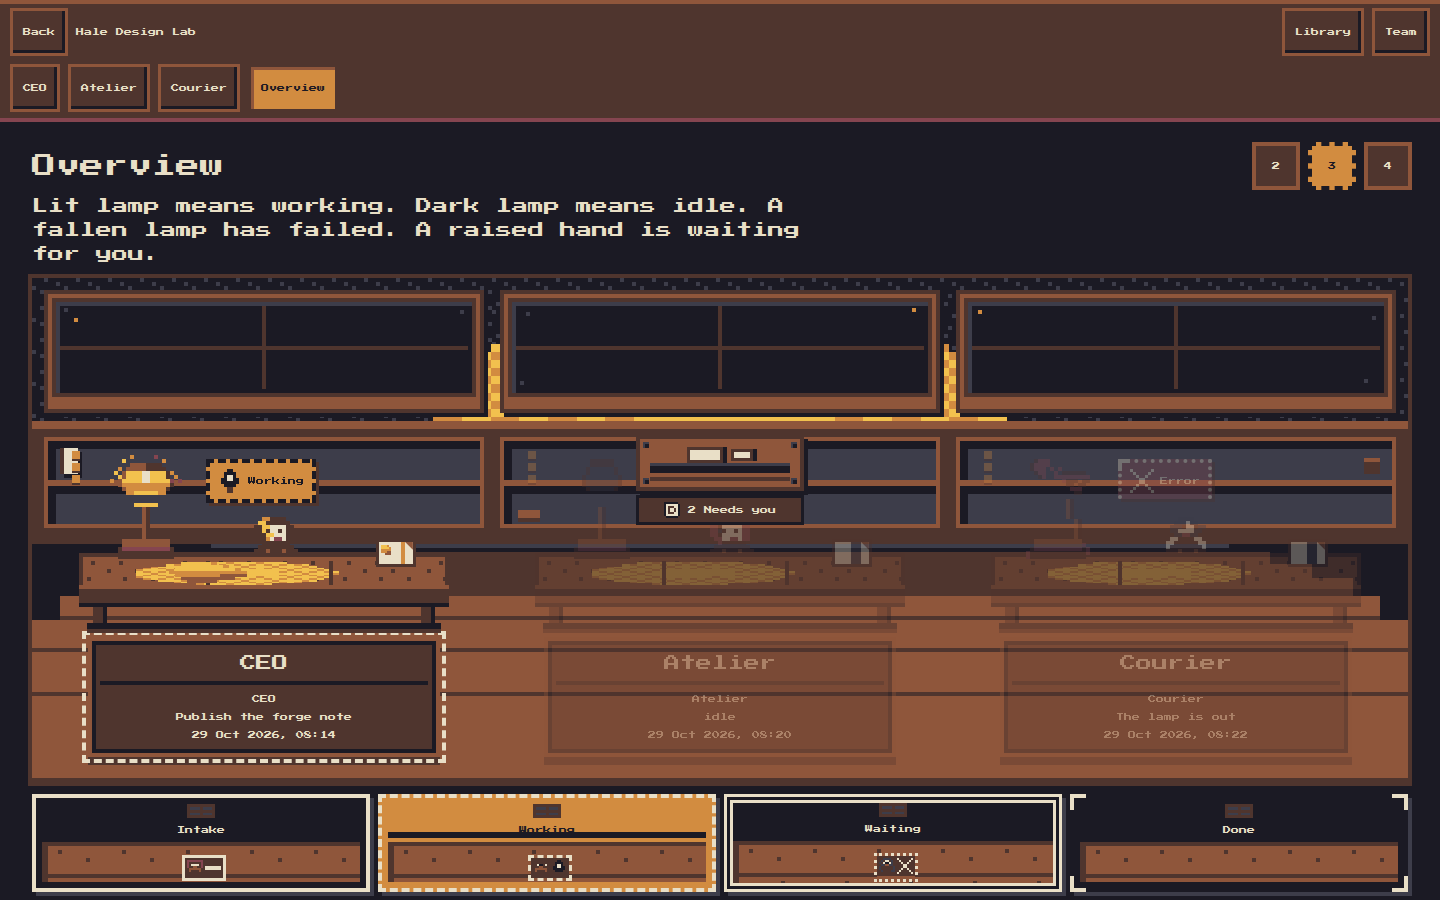
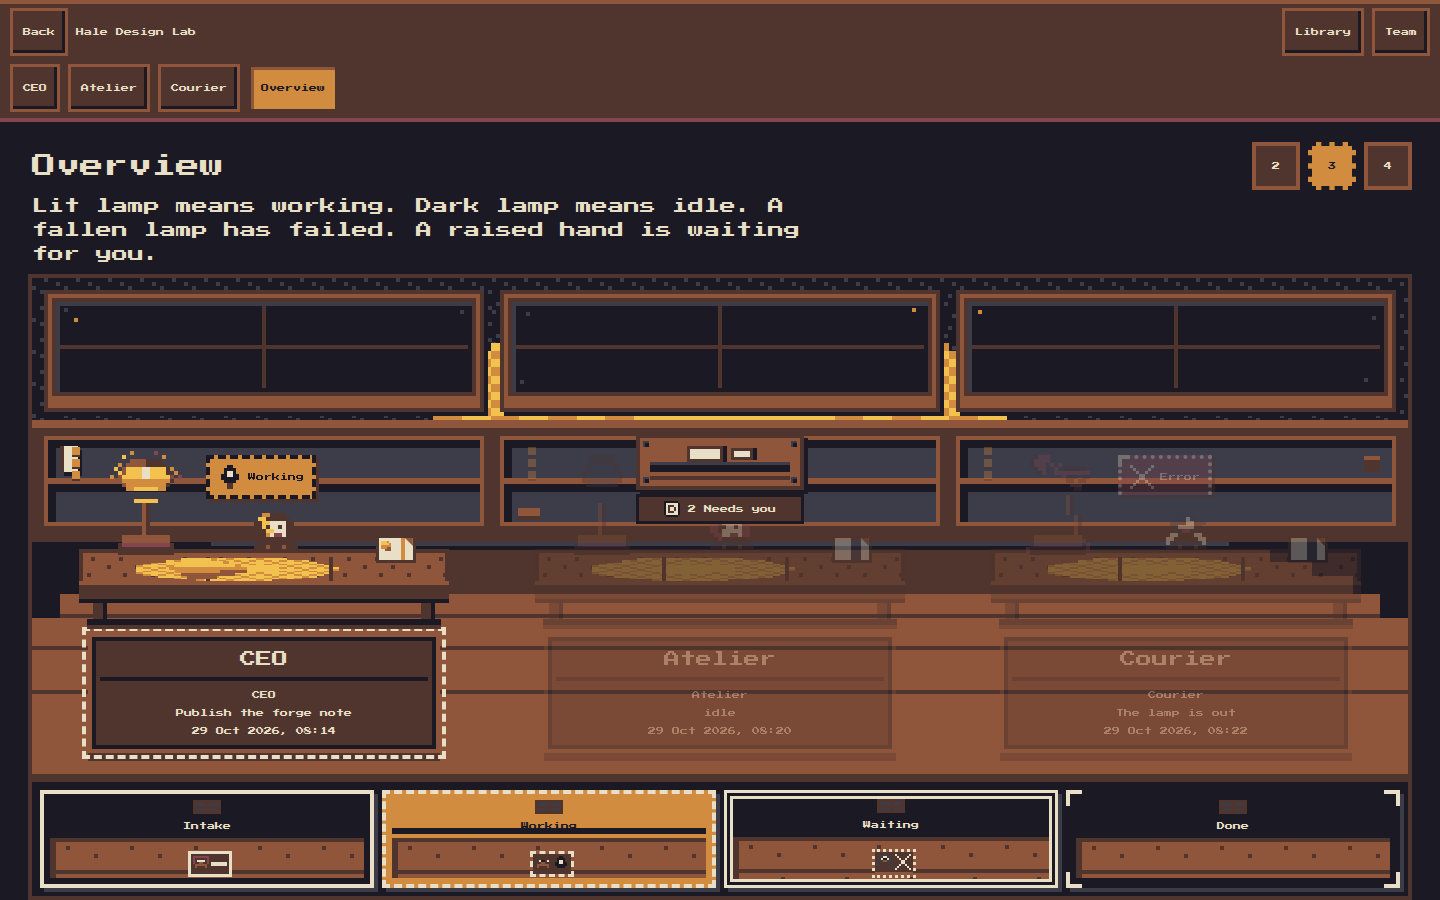
Keep the pipeline rooms inside the overview study.
The strip was a sibling under the room, so the room stopped about 114px short of the viewport. It now sits on the near edge of the room, and the painted hall fills the space above it.

Changed region(s): [[0.0, 0.4356, 1.0, 1.0]]

diff --git a/client/src/study/DeskGrid.tsx b/client/src/study/DeskGrid.tsx
@@ -155,6 +155,7 @@ export function DeskGrid({
         ref={roomRef}
         aria-hidden={covered ? true : undefined}
       >
+        <div className="desk-hall">
         <span className="agent-desk-wall" data-material="plaster" aria-hidden="true">
           <SpaceWash space="work" part="wall" />
         </span>
@@ -328,16 +329,17 @@ export function DeskGrid({
         </div>
         </div>
         <MailTray teamId={teamId} agents={agents} still={still} onOpen={onOpenMail ?? (() => {})} />
+        </div>
+        {showPipeline ? (
+          <PipelineRooms
+            ref={pipelineRef}
+            agents={agents}
+            still={still}
+            filter={pipeline}
+            onFilter={setPipeline}
+          />
+        ) : null}
       </div>
-      {showPipeline ? (
-        <PipelineRooms
-          ref={pipelineRef}
-          agents={agents}
-          still={still}
-          filter={pipeline}
-          onFilter={setPipeline}
-        />
-      ) : null}
       {canFocus && agents.length > 1 ? (
         <fieldset ref={tilesRef} className="tile-count" data-reach="local" aria-label="Desk tiles">
           {TILE_COUNTS.map((count) => (

diff --git a/client/src/index.css b/client/src/index.css
@@ -1306,9 +1306,19 @@ html:has(.room-portal-layer) body {
   flex: 1 1 auto;
   min-height: 0;
   overflow: hidden;
+  display: flex;
+  flex-direction: column;
   border: 4px solid var(--darkwood);
   background: var(--night);
   image-rendering: pixelated;
+}
+
+/* The painted hall keeps its own box. The pipeline band sits inside the room, on the near edge. */
+.desk-hall {
+  position: relative;
+  flex: 1 1 auto;
+  min-height: 0;
+  overflow: hidden;
 }
 
 .desk-floor-row {
@@ -6198,7 +6208,10 @@ html[data-recede="dim"] .mail-caption {
   display: grid;
   grid-template-columns: repeat(4, minmax(0, 1fr));
   gap: 8px;
-  margin: 0 4px 8px;
+  margin: 0;
+  padding: 8px;
+  background: var(--night);
+  border-top: 4px solid var(--darkwood);
   image-rendering: pixelated;
 }
 
